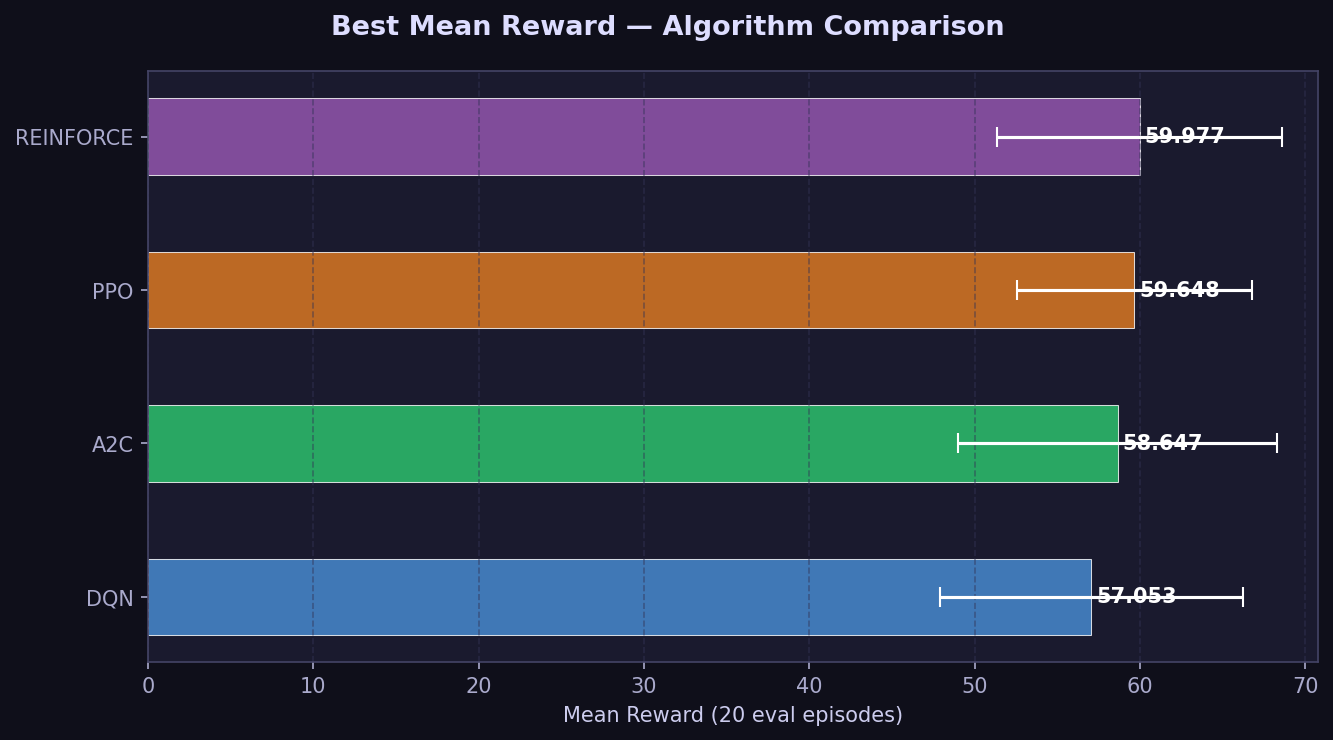
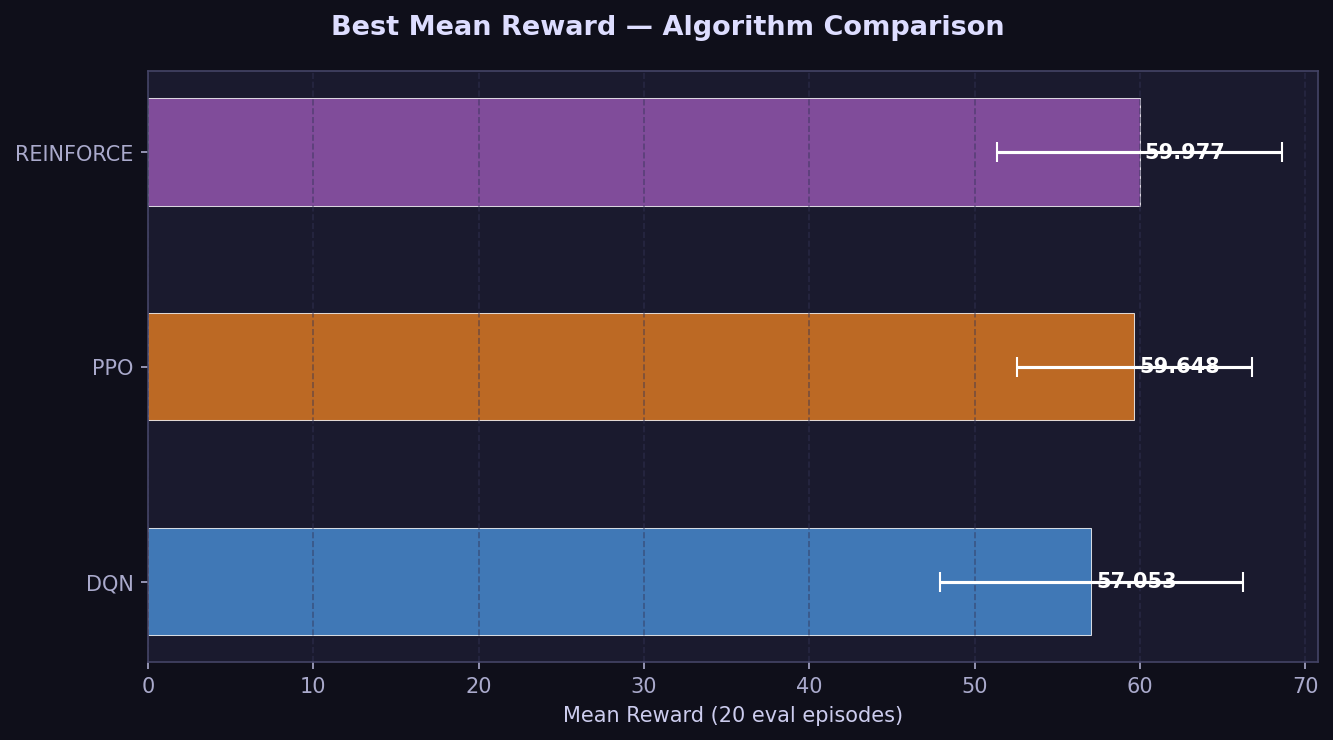
Update plot_results.py to refine figure descriptions and enhance analysis; modify cumulative rewards and PG entropy plots for clarity and detail

Changed region(s): [[0.0615, 0.3419, 0.9535, 0.6527], [0.0, 0.1554, 0.9535, 0.2797], [0.0615, 0.7149, 0.9535, 0.8392]]

diff --git a/plot_results.py b/plot_results.py
@@ -3,10 +3,10 @@ plot_results.py — Digital Wellbeing Coach RL
 Generates all report figures from saved results JSON files.
 
 Figures produced (saved to plots/):
-    1. cumulative_rewards.png   — mean reward per run, all 4 algorithms (subplots)
+    1. cumulative_rewards.png   — mean reward per run, DQN / PPO / REINFORCE (subplots)
     2. convergence.png          — best-run reward ranked across all algorithms
     3. dqn_analysis.png         — DQN: effect of gamma, exploration fraction, batch size
-    4. pg_entropy.png           — PPO/A2C: effect of entropy coefficient
+    4. pg_entropy.png           — PPO entropy coefficient effect + REINFORCE gamma effect
     5. hyperparameter_heatmap.png — LR vs gamma reward heatmap (DQN & PPO)
     6. generalization.png       — reward std comparison (stability / generalization)
 
@@ -35,13 +35,11 @@ def load(path: str) -> list[dict]:
 
 DQN_R = load(os.path.join(ROOT, "models", "dqn", "dqn_results.json"))
 PPO_R = load(os.path.join(ROOT, "models", "pg",  "ppo_results.json"))
-A2C_R = load(os.path.join(ROOT, "models", "pg",  "a2c_results.json"))
 RF_R  = load(os.path.join(ROOT, "models", "pg",  "reinforce_results.json"))
 
 ALGO_DATA = {
     "DQN":       (DQN_R, "#4A90D9"),
     "PPO":       (PPO_R, "#E67E22"),
-    "A2C":       (A2C_R, "#2ECC71"),
     "REINFORCE": (RF_R,  "#9B59B6"),
 }
 
@@ -71,12 +69,12 @@ def _save(name: str):
     print(f"  ✓ Saved → {path}")
 
 
-# ── 1. Cumulative Rewards — all 4 algorithms in subplots ──────────────────────
+# ── 1. Cumulative Rewards — 3 algorithms in subplots ─────────────────────────
 
 def plot_cumulative_rewards():
-    fig, axes = plt.subplots(2, 2, figsize=(13, 9))
+    fig, axes = plt.subplots(1, 3, figsize=(16, 5))
     fig.suptitle("Mean Reward per Hyperparameter Run — All Algorithms",
-                 fontsize=14, fontweight="bold", y=1.01)
+                 fontsize=14, fontweight="bold", y=1.03)
 
     for ax, (algo, (data, color)) in zip(axes.flat, ALGO_DATA.items()):
         runs    = [d["run"]         for d in data]
@@ -188,36 +186,52 @@ def plot_dqn_analysis():
     _save("dqn_analysis.png")
 
 
-# ── 4. PG Entropy — effect of entropy coefficient (PPO & A2C) ─────────────────
+# ── 4. PG Entropy — effect of entropy coefficient (PPO & REINFORCE) ──────────
 
 def plot_pg_entropy():
     fig, axes = plt.subplots(1, 2, figsize=(12, 5))
-    fig.suptitle("Policy Gradient — Entropy Coefficient Effect", fontsize=13,
+    fig.suptitle("Policy Gradient — Entropy & Gamma Effect", fontsize=13,
                  fontweight="bold")
 
-    for ax, (algo, data, color) in zip(axes, [
-        ("PPO", PPO_R, ALGO_DATA["PPO"][1]),
-        ("A2C", A2C_R, ALGO_DATA["A2C"][1]),
-    ]):
-        ents = sorted(set(d["ent_coef"] for d in data))
-        means = [np.mean([d["mean_reward"] for d in data if d["ent_coef"] == e])
-                 for e in ents]
-        stds  = [np.std( [d["mean_reward"] for d in data if d["ent_coef"] == e])
-                 for e in ents]
+    # PPO — entropy coefficient effect
+    ax = axes[0]
+    color = ALGO_DATA["PPO"][1]
+    ents  = sorted(set(d["ent_coef"] for d in PPO_R))
+    means = [np.mean([d["mean_reward"] for d in PPO_R if d["ent_coef"] == e]) for e in ents]
+    stds  = [np.std( [d["mean_reward"] for d in PPO_R if d["ent_coef"] == e]) for e in ents]
+    ax.plot([str(e) for e in ents], means, marker="o", color=color,
+            linewidth=2, markersize=8, label="Mean Reward")
+    ax.fill_between(range(len(ents)),
+                    [m - s for m, s in zip(means, stds)],
+                    [m + s for m, s in zip(means, stds)],
+                    color=color, alpha=0.2, label="±1 std")
+    ax.set_xticks(range(len(ents)))
+    ax.set_xticklabels([str(e) for e in ents])
+    ax.set_title("PPO — Entropy Coefficient Effect", fontsize=11)
+    ax.set_xlabel("Entropy Coefficient (ent_coef)")
+    ax.set_ylabel("Mean Reward")
+    ax.legend(fontsize=9)
+    ax.grid()
 
-        ax.plot([str(e) for e in ents], means, marker="o", color=color,
-                linewidth=2, markersize=8, label="Mean Reward")
-        ax.fill_between(range(len(ents)),
-                        [m - s for m, s in zip(means, stds)],
-                        [m + s for m, s in zip(means, stds)],
-                        color=color, alpha=0.2, label="±1 std")
-        ax.set_xticks(range(len(ents)))
-        ax.set_xticklabels([str(e) for e in ents])
-        ax.set_title(f"{algo} — Entropy Coefficient", fontsize=11)
-        ax.set_xlabel("Entropy Coefficient (ent_coef)")
-        ax.set_ylabel("Mean Reward")
-        ax.legend(fontsize=9)
-        ax.grid()
+    # REINFORCE — gamma effect
+    ax = axes[1]
+    color = ALGO_DATA["REINFORCE"][1]
+    gammas = sorted(set(d["gamma"] for d in RF_R))
+    means  = [np.mean([d["mean_reward"] for d in RF_R if d["gamma"] == g]) for g in gammas]
+    stds   = [np.std( [d["mean_reward"] for d in RF_R if d["gamma"] == g]) for g in gammas]
+    ax.plot([str(g) for g in gammas], means, marker="o", color=color,
+            linewidth=2, markersize=8, label="Mean Reward")
+    ax.fill_between(range(len(gammas)),
+                    [m - s for m, s in zip(means, stds)],
+                    [m + s for m, s in zip(means, stds)],
+                    color=color, alpha=0.2, label="±1 std")
+    ax.set_xticks(range(len(gammas)))
+    ax.set_xticklabels([str(g) for g in gammas])
+    ax.set_title("REINFORCE — Gamma (Discount Factor) Effect", fontsize=11)
+    ax.set_xlabel("Gamma")
+    ax.set_ylabel("Mean Reward")
+    ax.legend(fontsize=9)
+    ax.grid()
 
     plt.tight_layout()
     _save("pg_entropy.png")
